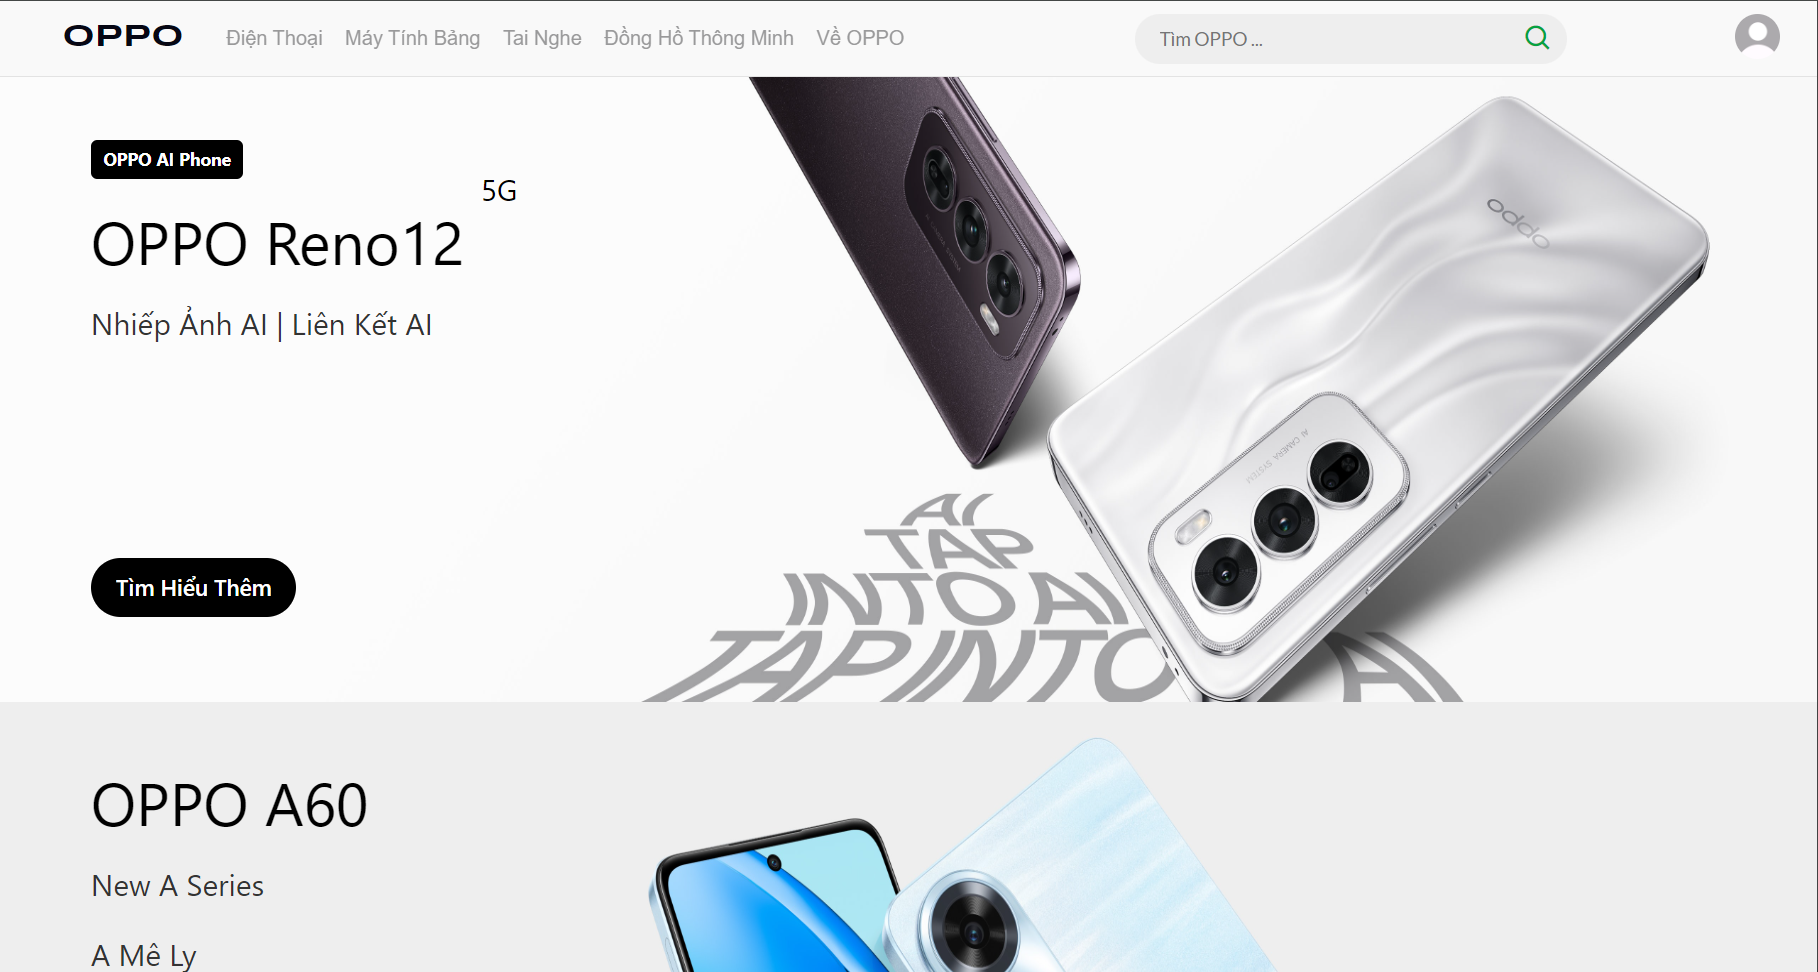
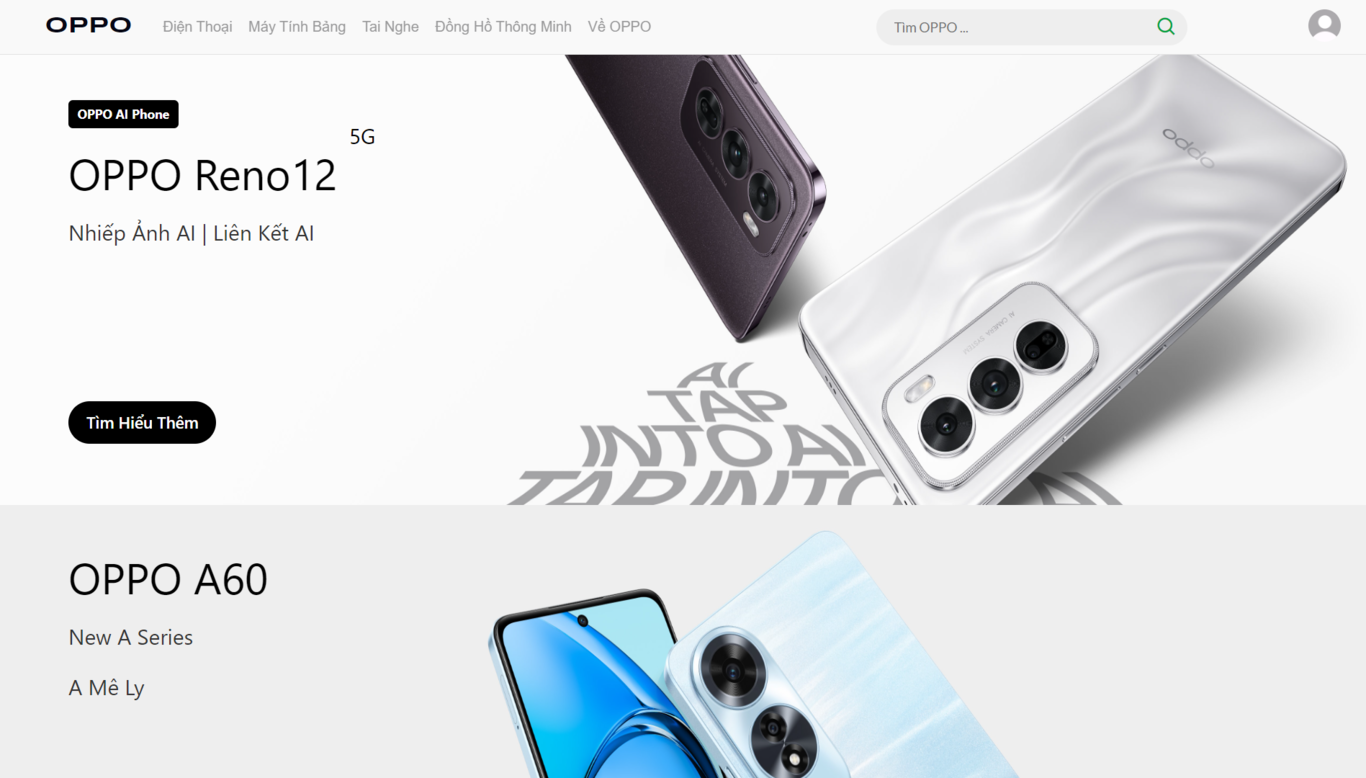
update

diff --git a/index.html b/index.html
@@ -91,11 +91,11 @@
                     </a> 
                 </div>
                 <div class="col-md-4">
-                    <img src="img/sehat_preview.webp" class="my-2 rounded" alt="Sehat">
+                    <img src="img/sehat_preview.png" class="my-2 rounded" alt="Sehat">
                 </div>
                 <div class="col-md-4">
                     <a href="https://vanvu25.github.io/Sneaker-H2/" >
-                        <img src="img/Sneaker_H2.jpg" class="my-2 rounded" alt="Sneaker-H2" >
+                        <img src="img/Sneaker-H2.png" class="my-2 rounded" alt="Sneaker-H2" >
                     </a>
                 </div>
                 <!-- <div class="col-md-4">

diff --git a/style.css b/style.css
@@ -57,7 +57,7 @@ nav.navbar {
 }
 #works img {
 	width: 100% !important;
-	height: 250px;
+	/* height: 250px; */
 	transition: transform .5s;
 }
 #works img:hover {
